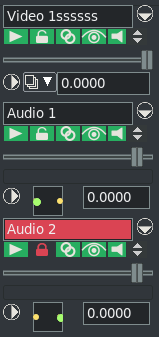
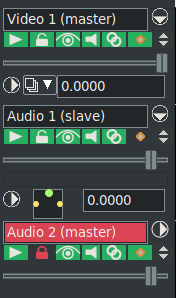
Andrea fixes for patchbay

diff --git a/parts/Editing.tex b/parts/Editing.tex
@@ -132,13 +132,6 @@ The 7 \textit{attributes} are described here next followed by the other availabl
 \end{description}
 
 \begin{description}
-\item[Gang Fader] cause the fader to track the movement of
-  whatever other fader you are adjusting by dragging either the fader
-  or the curve on the track.  It doesn't affect the editing made with
-  menu controls.  A fader is only ganged if the arm track is also on.
-  This is often used to adjust audio levels on all the tracks
-  simultaneously.  Gang also causes Nudge parameters to synchronize
-  across all the ganged tracks.
 \item[Draw Media] determines if picons or waveforms are drawn on
   the asset in the track.  You may want to disable this if you know
   that the media/format takes a long time to draw on the timeline.  By
@@ -158,11 +151,18 @@ The 7 \textit{attributes} are described here next followed by the other availabl
   Mute track is used to keep the track with the shared track effect
   from overlapping the output of the source track (the shared track)
   where the shared track effect is not present.
+\item[Gang Fader] cause the fader to track the movement of
+  whatever other fader you are adjusting by dragging either the fader
+  or the curve on the track.  It doesn't affect the editing made with
+  menu controls.  A fader is only ganged if the arm track is also on.
+  This is often used to adjust audio levels on all the tracks
+  simultaneously.  Gang also causes Nudge parameters to synchronize
+  across all the ganged tracks.
+\item[Master Track] Mark a track as \textit{master} serves when using \textit{Gang Channels} or \textit{Gang Media} mode. See \ref{sub:displaying_tracks_ganged}
 \item[Track Data Height] this up/down toggle symbol to the immediate right
 of the 5 attributes, is used to individually resize each track.  This makes
 it very easy to temporarily expand or contract the size of that track either
 by clickin with the left mouse button or using the middle wheel up/down.
-\item[Master Track] Mark a track as \textit{master} serves when using \textit{Gang Channels} or \textit{Gang Media} mode. see ...
 \item[Fader slider] fade values are represented on the timeline
   with a pink (default color) curve that is keyframable.  All tracks have a fader, but
   the units of each fader depend on whether it is audio or video.
@@ -311,50 +311,44 @@ on top of old tracks.
 
 Often users working on media where Audio is the main focus, want all of a media's audio channels, whether stereo or 5:1 channels, to be treated as a single unit. They are more familiar with working with a DAW (Digital Audio Workstation software) and find that it takes extra work and a lot more care to have to individually manage audio tracks rather than have them automatically edited as a ganged group.
 
-To use this capability, there is a \textit{Gang Tracks} toggle button on the main timeline controls to switch between 3 modes of working with multiple channels so that the tracks are automatically edited as a single unit. Operations affected include edits such as cuts, moving sections, and adding plugins. Group masters are marked by the \textit{Master Track} toggle in the patchbays. A track gang group begins on a master track, and extends to but does not include the next master track. The 3 \textit{Gang Tracks} modes are:
+To get this capability, there is a \textit{Gang Tracks} toggle button on the main timeline controls to switch between 3 modes of working with multiple channels so that the tracks are automatically edited as a single unit. Operations affected include edits such as cuts, moving sections, and adding plugins. Group masters are marked by the \textit{Master Track} toggle in the patchbays. A track gang group begins on a master track, and extends to, but not including, the next master track. The 3 \textit{Gang Tracks} modes are:
 
 \begin{enumerate}
-	\item \textbf{Gang None:} this is the default mode and is the traditional way Cinelerra operates. If you never toggle the "Gang Tracks" button, everything operates normally as it always has. In this mode, the button icon looks like 3 tracks with $\dots$ on the end and all tracks are visible on the timeline. See figure~\ref{fig:gang-track-01}.
+	\item \textbf{Gang None:} this is the default mode and is the traditional way Cinelerra operates. If you never toggle the "Gang Tracks" button, everything operates normally as it always has. In this mode, the button icon looks like 3 tracks with $\dots$ on the end and all tracks are visible on the timeline. See figure~\ref{fig:gang-track-01}
 \end{enumerate}
 
 \begin{figure}[htpb]
 	\centering
 	\includegraphics[width=0.99\linewidth]{gang-track-01.png}
-	\caption{Gang None: only the video track is master. We see all tracks, both master and non-master (default).}
+	\caption{Gang None: only the video track is master. We see all tracks both master and non-master (default)}
 	\label{fig:gang-track-01}
 \end{figure}
 
 \begin{enumerate}[start=2]
-	\item \textbf{Gang Channels:} in this mode, only the \textit{Master Tracks} and the first track of video, audio, or subtitles which are not master tracks are shown. Stereo tracks, or 5:1 channels/any number of audio tracks, are drawn as 1 audio track for the purpose of making changes on that single track which are then propagated to all of its other channel tracks automatically. This is the DAW-like mode. The \textit{Gang Tracks} button icon looks like 2 tracks and only the first video and first audio tracks will be shown. See figure~\ref{fig:gang-track-02}.
+	\item \textbf{Gang Channels:} in this mode, only the \textit{Master Tracks} and the first track of video, audio, or subtitles not master will are shown. Stereo tracks, or 5:1 channels/any number of audio tracks, are drawn as 1 audio track for the purpose of making changes on that single track which are propagated to all of its other channel tracks automatically. This is the DAW-like mode. The \textit{Gang Tracks} button icon looks like 2 tracks and only the first video and first audio tracks will be shown. See figure~\ref{fig:gang-track-02}
 \end{enumerate}
 
 \begin{figure}[htpb]
 	\centering
 	\includegraphics[width=0.99\linewidth]{gang-track-02.png}
-	\caption{Gang Channels: only the video track is master. We see the master tracks and the first of the non-master tracks.}
+	\caption{Gang Channels: only the video track is master. Let's see the master tracks and the first of the non master tracks}
 	\label{fig:gang-track-02}
 \end{figure}
 
 \begin{enumerate}[start=3]
-	\item \textbf{Gang Media:} this mode only shows the \textit{Master Tracks} of the media but changes are propagated to the appropriate other related tracks (even if they are not visible). The \textit{Gang Tracks} button icon looks like a single track. See figure~\ref{fig:gang-track-03}.
+	\item \textbf{Gang Media:} this mode only shows the \textit{Master Tracks} of the media but changes are propagated to the appropriate other related tracks (even if they are not visible). The \textit{Gang Tracks} button icon looks like a single track. See figure~\ref{fig:gang-track-03}
 \end{enumerate}
 
 \begin{figure}[htpb]
 	\centering
 	\includegraphics[width=0.99\linewidth]{gang-track-03.png}
-	\caption{Gang Media: only the video track is master. We only see the master tracks.}
+	\caption{Gang Media: only the video track is master. We only see the master tracks}
 	\label{fig:gang-track-03}
 \end{figure}
 
-The current \textit{Gang Tracks} mode is saved across sessions and will be saved in your project. Although most users will work in the \textit{Gang None} mode, those more familiar with DAW software will tend to use the \textit{Gang Channel}s mode.
+The current \textit{Gang Tracks} mode is saved across sessions and will be saved in your project. Although most likely users will work in the \textit{Gang None} mode, users more familiar with DAW software will tend to use the \textit{Gang Channel}s mode.
 
-To understand why certain aspects work the way they do in the gang modes, here is an explanation.
-Adding in this DAW-like feature to long time existing code called for an exact algorithm because tracks are
-not inherently bound or in a container. Because of this, there is a requirement that the tracks have to be
-lined up at the beginning and this timeline alignment is what creates the binding and allows for ganging.  
-
-Next, more details about master tracks are explained, which in addition to the alignment help to define the
-scope of a grouped gang. Each patchbay has a \textit{Master Track} button on the extreme right of the patchbay. These mark which tracks of the media are master tracks. The span of tracks between the gang group masters are the gang track group. The master track toggles can be disabled/enabled as the user wishes to create the desired track groups. Normal file loads will mark the first stream of each file loaded as a master if the media is loaded with insertion strategy of\textit{ Replace current project}, \textit{Replace current project and concatenate tracks} or \textit{Append in new tracks}. Frequently, editing is done on video, audio, or audio/video groups to maintain timeline synchronization. By grouping related tracks, this procedure is much more automatic.
+More details ares described next about master tracks. Each patchbay has a \textit{Master Track} button on the extreme right of the patchbay. These mark which tracks of the media are master tracks. The span of tracks between the gang group masters are the gang track group. The master track toggles can be disabled/enabled as the user wishes to create the desired track groups. Normal file loads will mark the first stream of each file loaded as a master, if the media is loaded with insertion strategy of\textit{ Replace current project}, \textit{Replace current project and concatenate tracks} or \textit{Append in new tracks}. Frequently, editing is done on video, audio, or audio/video groups to maintain timeline synchronization. By grouping related tracks, this procedure is much more automatic.
 
 Previously existing projects created before the addition of ganged tracks, will have ALL tracks marked as master tracks and changing the \textit{Gang Tracks} button mode will have no effect. The user will have to properly designate which track is the master track and disabling the others in order to make use of the toggle modes.
 
@@ -365,9 +359,6 @@ NOTES:
 	\item When in \textit{Gang Channels} or \textit{Gang Media} mode, if the first audio track is not disarmed, but 	any of its connected channel tracks are, the disarm of those channels are ignored and all channels are treated as being armed. This is to be consistent with the purpose of using this mode; the purpose being that any edits to the first master track are automatically propagated to all other channels.
 	\item It may be better when using the \textit{Gang Channels} or \textit{Gang Media} mode to make any changes
 	to the first audio channel to be automatically duplicated before reverting to the \textit{Gang None} mode to make other changes. Once you start changing individual channels (that is, audio tracks) so that they are no longer coordinated in their edits/plugins, it may be more difficult to switch back to \textit{Gang Channels} mode and get the desired results since the channels may no longer be lined up.
-	\item When in Drag and Drop mode and you create a \textit{Permanent Group} as described in section
-~\ref{sub:grouping_edits} the grouping does not take precedence over ganging; i.e. they are ignored and only
-the timeline alignment is honored.
 \end{itemize}
 
 \section{Two Screen Editing}%
